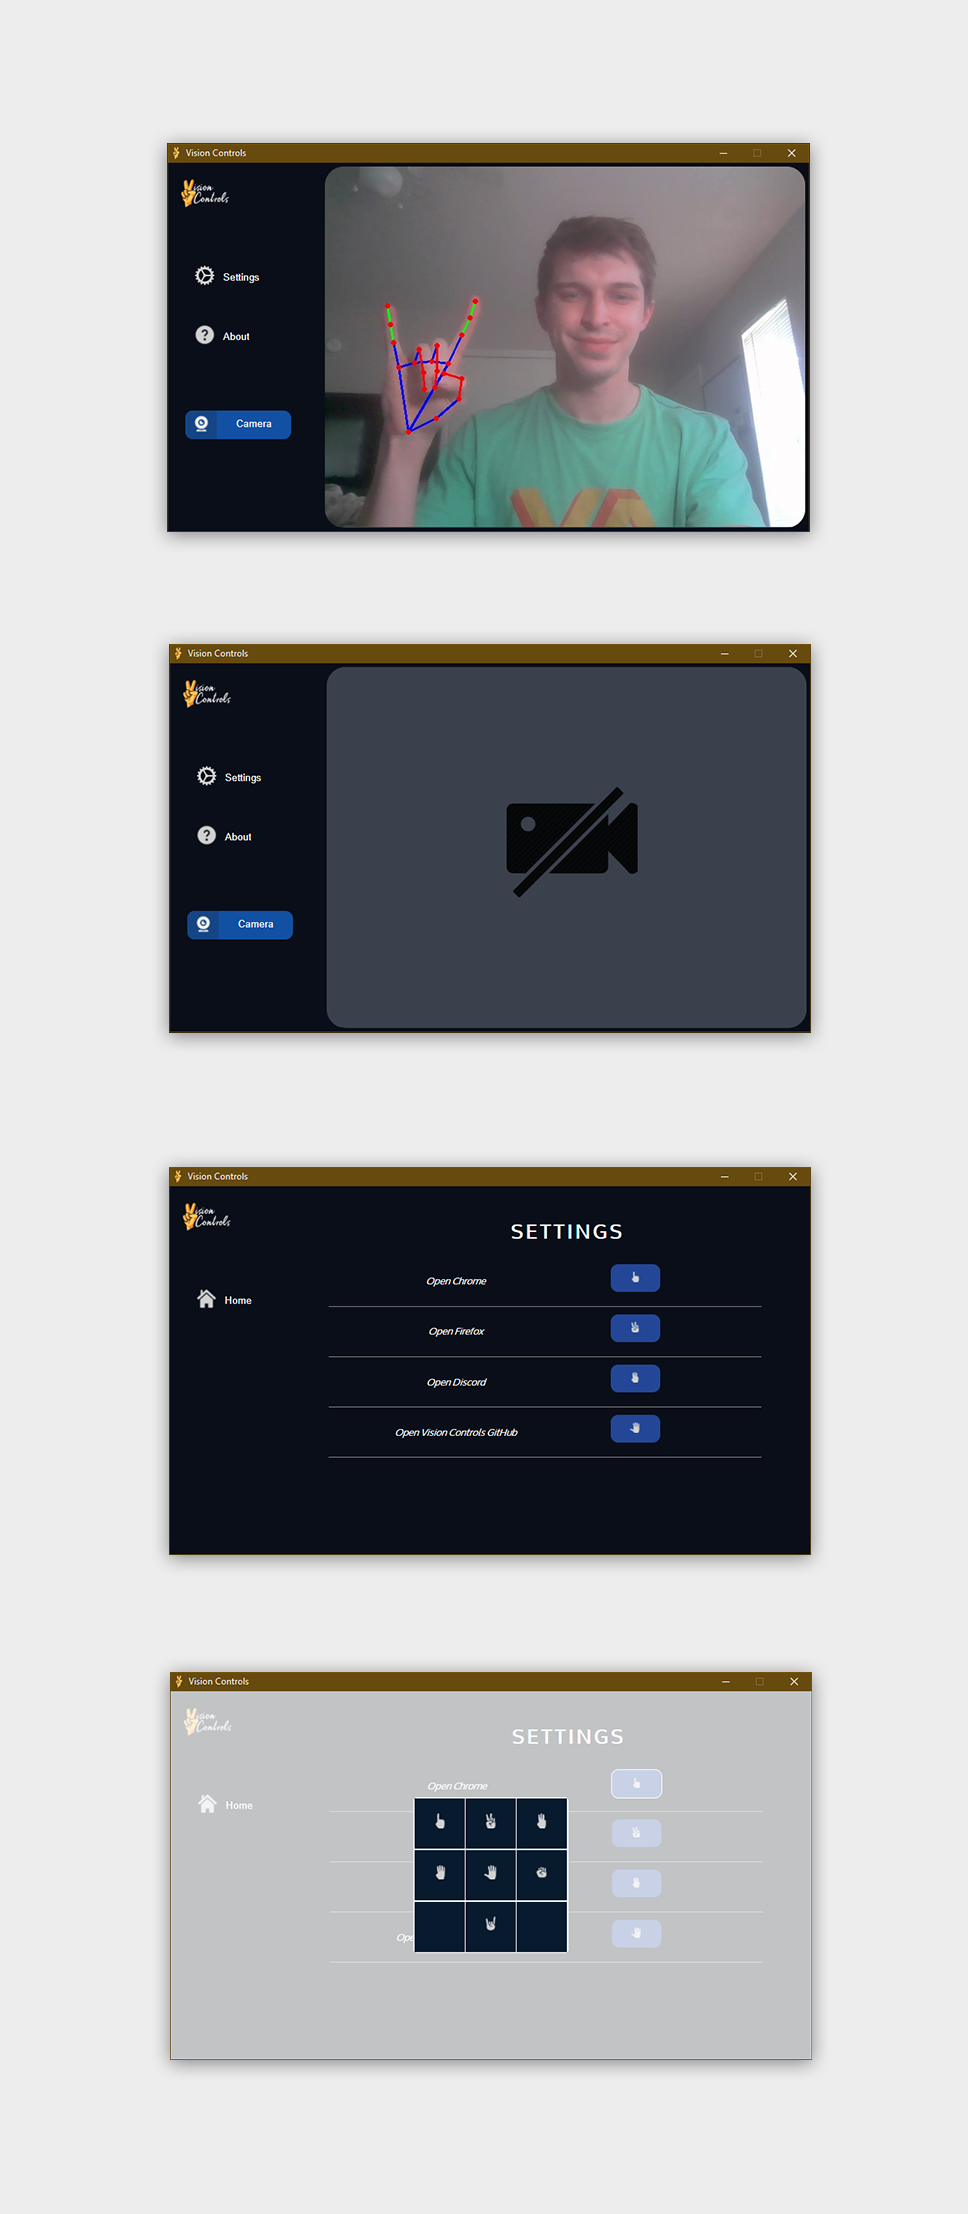
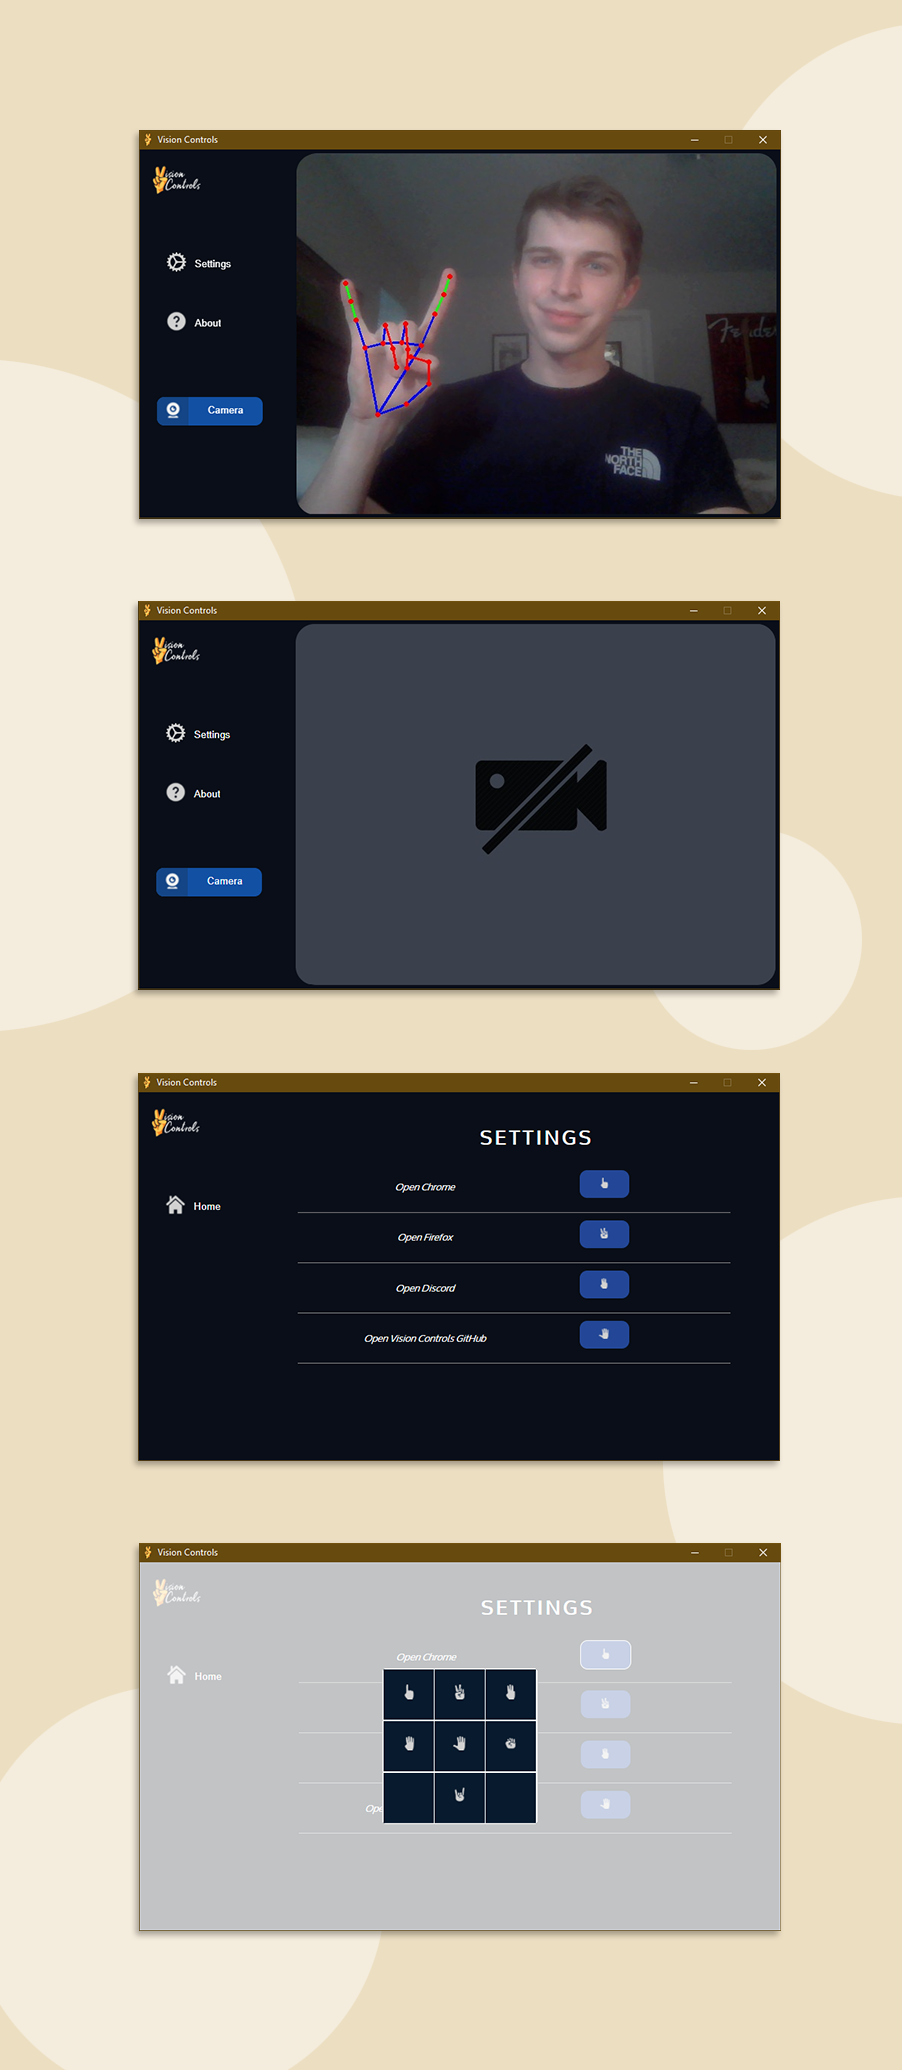
updated readme

diff --git a/front-end/src/components/MainScreen/CameraOption.js b/front-end/src/components/MainScreen/CameraOption.js
@@ -45,7 +45,7 @@ export default function CameraOption({btnClick, icon}) {
     width: "640px",
     border: "none",
     position: "absolute",
-    top: "5px",
+    top: "6px",
     right: "5px",
     height: "98vh",
     borderRadius: "25px",

diff --git a/README.md b/README.md
@@ -3,7 +3,7 @@
 
 ## Table of contents
 * [General info](#general-info)
-* [Screenshots](#screenshots)
+* [Showcase](#screenshots)
 * [Tech Stack](#tech-stack)
 * [Setup](#setup)
 * [Features](#features)
@@ -15,8 +15,8 @@
 Vision Controls is a desktop application that allows the user to control various applications through hand gestures.
 
 
-## Screenshots
-![ss1](./assets/readme/main1.png)
+## Showcase
+![ss1](./assets/readme/main2.png)
 
 
 ## Tech Stack
@@ -43,13 +43,13 @@ yarn install
 
 Frontend
 ```
-$ cd frontend
+cd frontend
 yarn start
 npm run electron-start
 ```
 Backend
 ```
-$ pip install -r requirements.txt
+pip install -r requirements.txt
 python recognition/app.py
 ```
 
